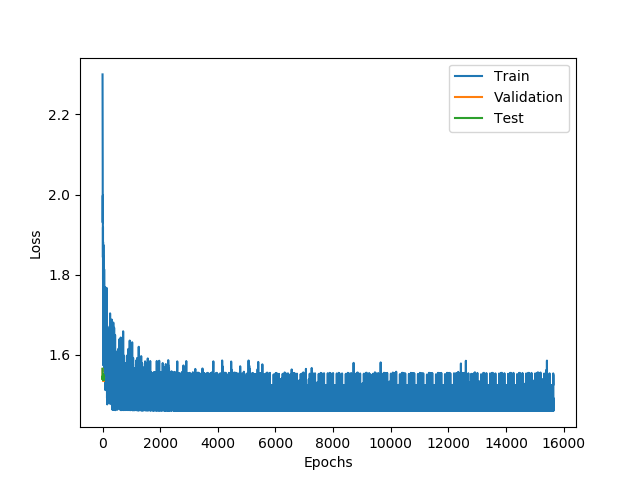
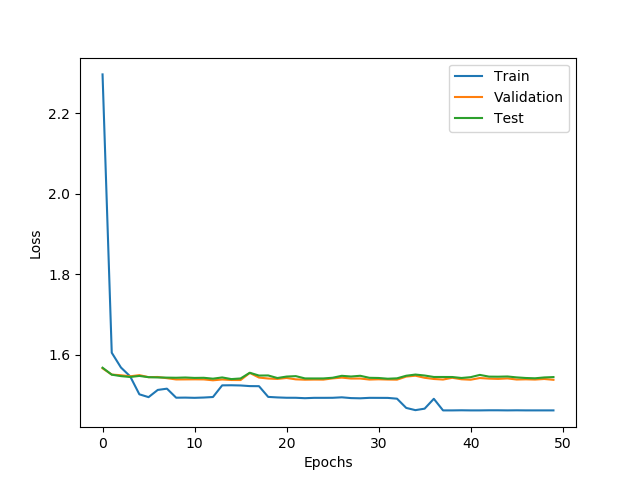
up to cloud

diff --git a/a2/starter.py b/a2/starter.py
@@ -176,7 +176,7 @@ def train_torch_model(lr = 0.0001, epoch = 50):
         MyCustomDataset(trainData, trainTarget), batch_size=32
     )
     loss_func = torch.nn.CrossEntropyLoss()
-    optimizer = torch.optim.Adam(cnn.parameters(), lr=lr, weight_decay=0)
+    optimizer = torch.optim.Adam(cnn.parameters(), lr=lr, weight_decay=0.01)
     del trainData, trainTarget
     for i in range(0, epoch):
         for data, label in trainDataLoader:
@@ -217,8 +217,8 @@ def train_torch_model(lr = 0.0001, epoch = 50):
     error_train = [error_train[i] for i in range(0, len(error_train), num)]
     acc_train = [acc_train[i] for i in range(0, len(acc_train), num)]
     plot_trend([error_train, error_valid, error_test],
-               data_title="torch_loss_2-1", y_label="Loss")
-    plot_trend([acc_train, acc_valid, acc_test], data_title="torch_accuracy_2-1")
+               data_title="torch_loss_2-3-001", y_label="Loss")
+    plot_trend([acc_train, acc_valid, acc_test], data_title="torch_accuracy_2-3-001")
 
 
 if __name__ == "__main__":
